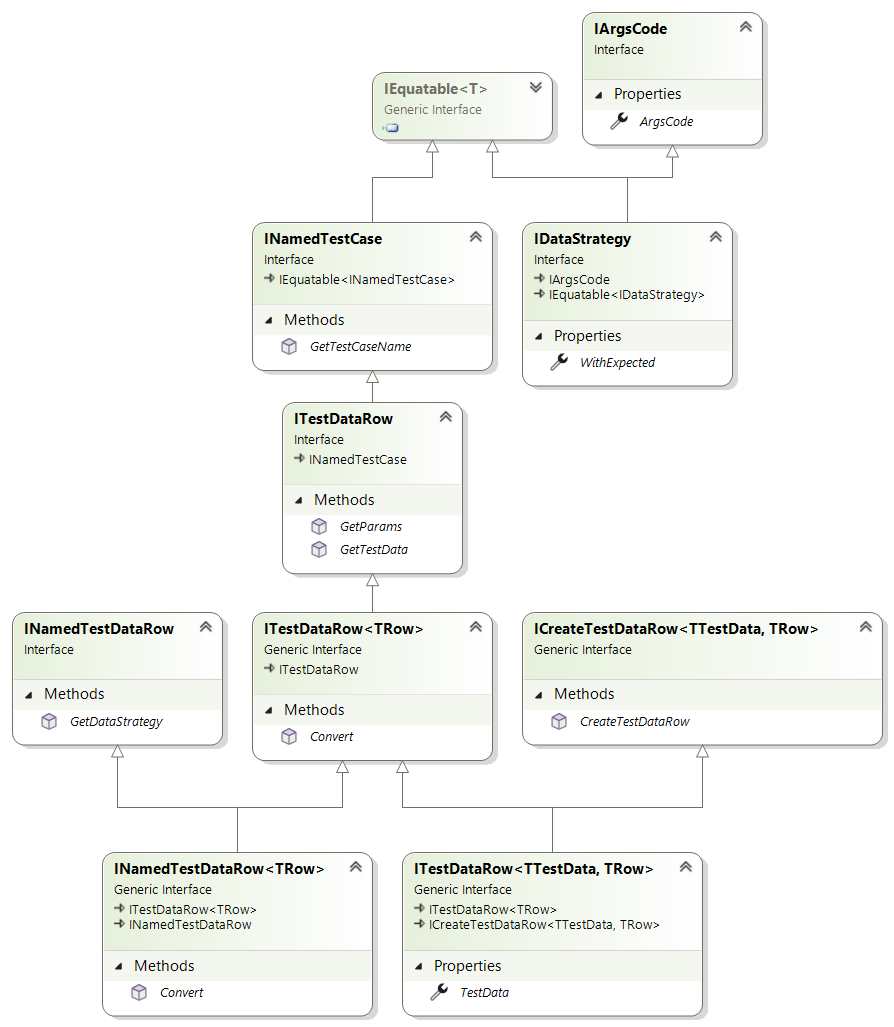
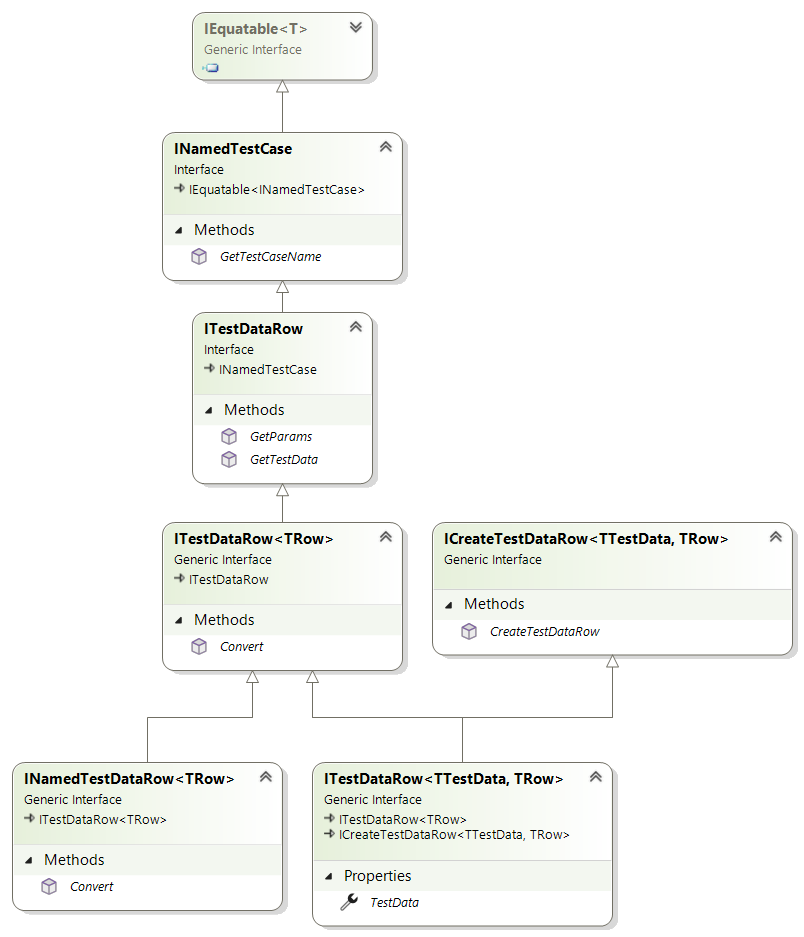
DataStrategyTypes segregated

Changed region(s): [[0.0, 0.0, 0.995, 0.7737], [0.0, 0.7737, 0.8085, 1.0]]

diff --git a/GlobalUsings.cs b/GlobalUsings.cs
@@ -3,9 +3,11 @@
 
 global using CsabaDu.DynamicTestData.DataRowHolders;
 global using CsabaDu.DynamicTestData.DataRowHolders.Interfaces;
-global using CsabaDu.DynamicTestData.TestDataRows.Interfaces;
-global using CsabaDu.DynamicTestData.TestDataRows;
+global using CsabaDu.DynamicTestData.DataStrategyTypes;
+global using CsabaDu.DynamicTestData.DataStrategyTypes.Interfaces;
 global using CsabaDu.DynamicTestData.Statics;
+global using CsabaDu.DynamicTestData.TestDataRows;
+global using CsabaDu.DynamicTestData.TestDataRows.Interfaces;
 global using CsabaDu.DynamicTestData.TestDataTypes;
 global using CsabaDu.DynamicTestData.TestDataTypes.Interfaces;
 global using System.Collections;

diff --git a/TestDataRows/Interfaces/INamedTestDataRow.cs b/TestDataRows/Interfaces/INamedTestDataRow.cs
@@ -3,14 +3,10 @@
 
 namespace CsabaDu.DynamicTestData.TestDataRows.Interfaces;
 
-public interface INamedTestDataRow
-{
-    IDataStrategy GetDataStrategy();
-}
+//public interface INamedTestDataRow;
 
 public interface INamedTestDataRow<TRow>
-: ITestDataRow<TRow>,
-INamedTestDataRow
+: ITestDataRow<TRow>
 {
     TRow Convert(IDataStrategy dataStrategy, string? testMethodName);
 }

diff --git a/DataStrategyTypes/Interfaces/IDataStrategy.cs b/DataStrategyTypes/Interfaces/IDataStrategy.cs
@@ -1,7 +1,8 @@
 // SPDX-License-Identifier: MIT
 // Copyright (c) 2025. Csaba Dudas (CsabaDu)
 
-namespace CsabaDu.DynamicTestData.TestDataRows.Interfaces;
+namespace CsabaDu.DynamicTestData.DataStrategyTypes.Interfaces;
+
 public interface IDataStrategy : IArgsCode, IEquatable<IDataStrategy>
 {
     ///// <summary>

diff --git a/DataRowHolders/Interfaces/INamedDataRowHolder.cs b/DataRowHolders/Interfaces/INamedDataRowHolder.cs
@@ -7,5 +7,5 @@ public interface INamedDataRowHolder<TRow>
 : IDataRowHolder<TRow>,
 INamedRows<TRow>
 {
-    INamedDataRowHolder<TRow> GetNamedDataRowHolder(string? testMethodName);
+    INamedDataRowHolder<TRow> GetNamedDataRowHolder(IDataStrategy dataStrategy, string? testMethodName);
 }

diff --git a/DataStrategyTypes/DataStrategyBase.cs b/DataStrategyTypes/DataStrategyBase.cs
@@ -1,7 +1,7 @@
 // SPDX-License-Identifier: MIT
 // Copyright (c) 2025. Csaba Dudas (CsabaDu)
 
-namespace CsabaDu.DynamicTestData.TestDataRows;
+namespace CsabaDu.DynamicTestData.DataStrategyTypes;
 
 public abstract record DataStrategyBase(ArgsCode ArgsCode)
 : IArgsCode;

diff --git a/DataStrategyTypes/DataStrategy.cs b/DataStrategyTypes/DataStrategy.cs
@@ -1,7 +1,7 @@
 // SPDX-License-Identifier: MIT
 // Copyright (c) 2025. Csaba Dudas (CsabaDu)
 
-namespace CsabaDu.DynamicTestData.TestDataRows;
+namespace CsabaDu.DynamicTestData.DataStrategyTypes;
 
 public sealed record DataStrategy(
     ArgsCode ArgsCode,

diff --git a/DataStrategyTypes/Interfaces/IArgsCode.cs b/DataStrategyTypes/Interfaces/IArgsCode.cs
@@ -1,7 +1,7 @@
 // SPDX-License-Identifier: MIT
 // Copyright (c) 2025. Csaba Dudas (CsabaDu)
 
-namespace CsabaDu.DynamicTestData.TestDataRows.Interfaces;
+namespace CsabaDu.DynamicTestData.DataStrategyTypes.Interfaces;
 
 public interface IArgsCode
 {

diff --git a/DynamicDataSources/DynamicDataSourceBase.cs b/DynamicDataSources/DynamicDataSourceBase.cs
@@ -1,6 +1,8 @@
 // SPDX-License-Identifier: MIT
 // Copyright (c) 2025. Csaba Dudas (CsabaDu)
 
+using CsabaDu.DynamicTestData.DataStrategyTypes.Interfaces;
+
 namespace CsabaDu.DynamicTestData.DynamicDataSources;
 
 /// <summary>
